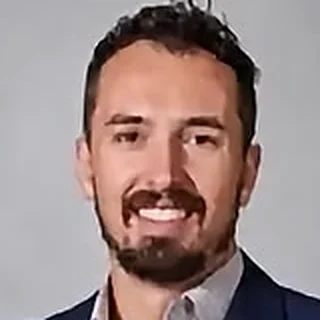
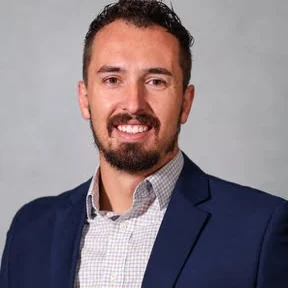
Real dancer photos, shown larger
Eight supplied headshots replace the 160px poster crops, each hand
framed head and shoulders. Avatars go 56 to 78px, the dancer portrait
112 to 156, and the big screen faces are about a third larger.

Rochell Topham (212px) and Brady Williams (288px) came in low and will
look soft until upscaled versions arrive.

diff --git a/v1-battle/index.html b/v1-battle/index.html
@@ -139,7 +139,7 @@ p{margin:0}
 
 /* ---------- leaderboard ---------- */
 .board{display:flex;flex-direction:column;gap:var(--s3);list-style:none;margin:0;padding:0}
-.row{position:relative;display:grid;grid-template-columns:38px 56px 1fr auto;gap:var(--s3);
+.row{position:relative;display:grid;grid-template-columns:38px 78px 1fr auto;gap:var(--s4);
   align-items:center;width:100%;text-align:left;padding:var(--s3);border-radius:var(--r-md);
   background:var(--stage);border:1px solid var(--line);cursor:pointer;font-family:inherit;
   color:inherit;box-shadow:var(--e-1);overflow:hidden;
@@ -153,7 +153,7 @@ p{margin:0}
 .rank{font-family:Anton,Impact,sans-serif;font-size:25px;color:var(--faint);text-align:center;
   line-height:1;font-variant-numeric:tabular-nums}
 .row.lead .rank{color:var(--gold-bright)}
-.ava{width:56px;height:56px;border-radius:var(--r-sm);overflow:hidden;position:relative;background:var(--amp)}
+.ava{width:78px;height:78px;border-radius:10px;overflow:hidden;position:relative;background:var(--amp)}
 .ava img{width:100%;height:100%;object-fit:cover;display:block}
 .ava::after{content:"";position:absolute;inset:0;background:linear-gradient(to top,rgba(0,0,0,0.42),transparent 58%)}
 .who{min-width:0}
@@ -169,7 +169,7 @@ p{margin:0}
 .row:hover .go{transform:translateX(3px);color:var(--gold-bright)}
 
 /* ---------- lineup with standings hidden ---------- */
-.row.plain{grid-template-columns:56px 1fr auto}
+.row.plain{grid-template-columns:78px 1fr auto}
 .row.plain .bar{display:none}
 .helpbtn{display:inline-flex;align-items:center;gap:7px;background:var(--riser);
   border:1px solid var(--line-strong);color:var(--text);font-family:inherit;font-size:13.5px;
@@ -223,7 +223,7 @@ p{margin:0}
   box-shadow:var(--e-2);position:relative;overflow:hidden}
 .stage::before{content:"";position:absolute;left:0;right:0;top:0;height:3px;
   background:linear-gradient(90deg,var(--red-deep),var(--red) 35%,var(--orange) 68%,var(--gold))}
-.portrait{width:112px;height:112px;border-radius:50%;overflow:hidden;flex-shrink:0;
+.portrait{width:clamp(130px,34vw,156px);aspect-ratio:1;border-radius:50%;overflow:hidden;flex-shrink:0;
   border:3px solid var(--gold);background:var(--amp)}
 .portrait img{width:100%;height:100%;object-fit:cover;display:block}
 .stage .who2{min-width:0}
@@ -368,7 +368,7 @@ p{margin:0}
 <div class="rail rail-l" aria-hidden="true"><img src="../images/art/art-guitar-left.webp" alt=""></div>
 <div class="rail rail-r" aria-hidden="true"><img src="../images/art/art-guitar-right.webp" alt=""></div>
 
-<div class="proto">Prototype for review. Real lineup, photos lifted from the event poster. No real payments are processed.</div>
+<div class="proto">Prototype for review. Real lineup and real photos. No real payments are processed.</div>
 
 <header class="mast">
   <div class="mast-in">
@@ -422,7 +422,7 @@ p{margin:0}
   <section class="view" id="v-dancer">
     <button class="back" data-go="home">&larr; The lineup</button>
     <div class="stage">
-      <div class="portrait"><img id="d-img" alt="" width="112" height="112"></div>
+      <div class="portrait"><img id="d-img" alt="" width="156" height="156"></div>
       <div class="who2">
         <h2 id="d-name">Dancer</h2>
         <span class="pill" id="d-rank">#1</span>
@@ -571,7 +571,7 @@ function drawBoard(){
   $('#board').innerHTML = list.map((d,i) => `
     <li><button class="row ${open ? (i===0?'lead':'') : 'plain'}" data-id="${d.id}">
       ${open ? `<span class="rank">${i+1}</span>` : ''}
-      <span class="ava"><img src="${photo(d)}" alt="" width="56" height="56" loading="lazy"></span>
+      <span class="ava"><img src="${photo(d)}" alt="" width="78" height="78" loading="lazy"></span>
       <span class="who">
         <b>${d.name}</b>
         ${open ? `<span class="bar"><i style="transform:scaleX(${Math.max(0.08, CJC.rankVal(d)/lead).toFixed(3)})"></i></span>` : ''}

diff --git a/display/index.html b/display/index.html
@@ -56,18 +56,18 @@ main{position:relative;z-index:1;flex:1;display:flex;flex-direction:column;
 .money .cap b{color:var(--text);font-weight:600}
 body.standings .money{display:none}
 
-.faces{display:flex;justify-content:center;gap:clamp(8px,1.4vw,26px);padding-top:1.6vh;flex-wrap:nowrap}
+.faces{display:flex;justify-content:center;gap:clamp(10px,1.7vw,32px);padding-top:1.4vh;flex-wrap:nowrap}
 .face{text-align:center;min-width:0}
-.face img{width:clamp(46px,5.6vw,104px);aspect-ratio:1;border-radius:50%;object-fit:cover;
+.face img{width:clamp(62px,7.2vw,138px);aspect-ratio:1;border-radius:50%;object-fit:cover;
   display:block;margin:0 auto .7vh;border:2px solid var(--line-strong)}
-.face span{display:block;font-size:clamp(9px,.86vw,16px);color:var(--muted);line-height:1.25;
-  max-width:clamp(62px,7vw,132px);margin:0 auto}
+.face span{display:block;font-size:clamp(10px,.95vw,18px);color:var(--muted);line-height:1.25;
+  max-width:clamp(74px,8.4vw,164px);margin:0 auto}
 body.standings .faces{display:none}
 
 /* ---------------- STANDINGS MODE ---------------- */
 .board{display:none;flex:1;grid-template-columns:1fr 1fr;gap:1.1vh 3vw;align-content:stretch;min-height:0}
 body.standings .board{display:grid}
-.r{display:grid;grid-template-columns:clamp(30px,3vw,58px) clamp(42px,4vw,76px) 1fr;gap:1.2vw;
+.r{display:grid;grid-template-columns:clamp(30px,3vw,58px) clamp(54px,5.2vw,100px) 1fr;gap:1.3vw;
   align-items:center;padding:.5vh .9vw;border-radius:12px;background:rgba(247,242,232,0.025);
   border:1px solid transparent;transition:background-color .5s ease,border-color .5s ease,transform .5s var(--spring)}
 .r.top{background:linear-gradient(90deg,rgba(239,194,71,0.15),rgba(239,194,71,0.03));border-color:rgba(239,194,71,0.34)}

diff --git a/index.html b/index.html
@@ -148,7 +148,7 @@ footer{margin-top:var(--s8);padding-top:var(--s5);border-top:1px solid var(--lin
     <ul>
       <li><span><b>Payments.</b> Nothing charges a card. Square goes in once the account is verified and API credentials are issued.</span></li>
       <li><span><b>The QR points at this preview.</b> Before it goes on a poster or a table tent it has to point at the final address, and that address can never change afterwards.</span></li>
-      <li><span><b>Photos.</b> All eight dancers are the real lineup, but the headshots were lifted from the poster at about 160px. We need the originals.</span></li>
+      <li><span><b>Two photos are still low resolution.</b> Six of the eight headshots are now the real supplied versions. Rochell Topham came in at 212px and Brady Williams at 288px, so both will look soft until upscaled versions arrive.</span></li>
       <li><span><b>Totals.</b> Sample numbers that drift on their own so the screens look alive during a demo.</span></li>
       <li><span><b>The how-to video.</b> The slot is in place. Script and shot list are in the project folder.</span></li>
     </ul>
